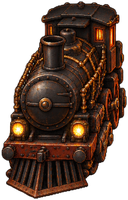
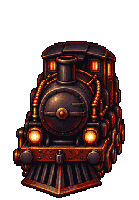
Выровняй корпус паровоза на поворотах

diff --git a/art_src/train_turn_v2/prepare.py b/art_src/train_turn_v2/prepare.py
@@ -1,0 +1,87 @@
+"""Prepare the generated turn, validate both runtime PNGs, and rebuild the QA board."""
+import hashlib
+import json
+import re
+from pathlib import Path
+
+from PIL import Image, ImageDraw, ImageOps
+
+ROOT = Path(__file__).resolve().parents[2]
+HERE = Path(__file__).resolve().parent
+TRAIN = ROOT / 'assets/px/train'
+PALETTE = [tuple(bytes.fromhex(h)) for h in re.findall(
+    r'\b[0-9a-f]{6}\b', (ROOT / 'docs/STYLE.md').read_text(encoding='utf-8'))]
+
+
+def write_json(name, value):
+    (HERE / name).write_text(json.dumps(value, indent=2, ensure_ascii=False) + '\n', encoding='utf-8')
+
+
+def measure(im):
+    pixels = im.load()
+    rows = [sum(pixels[x, y][3] == 255 for x in range(im.width)) for y in range(im.height)]
+    colors = {p[:3] for p in im.get_flattened_data() if p[3]}
+    return dict(width=im.width, height=im.height,
+                body_top=next(y for y, count in enumerate(rows) if count),
+                first_row_25_percent=next(y for y, count in enumerate(rows) if count >= im.width / 4),
+                bottom=max(y for y, count in enumerate(rows) if count),
+                off_palette_colors=len(colors - set(PALETTE)),
+                alpha_values=sorted(set(im.getchannel('A').get_flattened_data())))
+
+
+def main():
+    source = Image.open(HERE / 'generated_left.png').convert('RGBA')
+    source.putalpha(source.getchannel('A').point(lambda a: 255 if a >= 128 else 0))
+    # Preserve aspect ratio and 157-pixel body height; no vertical shear or tilt.
+    source = source.crop(source.getbbox())
+    body = source.resize((round(source.width * 157 / source.height), 157), Image.Resampling.NEAREST)
+    mapped = []
+    cache = {}
+    for r, g, b, a in body.get_flattened_data():
+        if not a:
+            mapped.append((0, 0, 0, 0))
+            continue
+        rgb = (r, g, b)
+        if rgb not in cache:
+            cache[rgb] = min(PALETTE, key=lambda p: sum((p[i] - rgb[i]) ** 2 for i in range(3)))
+        mapped.append((*cache[rgb], 255))
+    body.putdata(mapped)
+    left = Image.new('RGBA', (139, 200))
+    left.paste(body, ((139 - body.width) // 2, 41))
+    frames = [left, ImageOps.mirror(left)]
+    validation = {}
+    manifest = []
+    for direction, im in zip(('left', 'right'), frames):
+        name = f'loco_turn_{direction}.png'
+        path = TRAIN / name
+        im.save(path)
+        result = measure(im)
+        assert result['height'] == 200 and result['width'] <= 139
+        assert result['body_top'] >= 41 and result['first_row_25_percent'] >= 38
+        assert 196 <= result['bottom'] <= 198
+        assert result['off_palette_colors'] == 0 and result['alpha_values'] == [0, 255]
+        result['sha256'] = hashlib.sha256(path.read_bytes()).hexdigest()
+        validation[name] = result
+        manifest.append(dict(file=path.relative_to(ROOT).as_posix(), size=[139, 200], frames=1,
+                             pivot=[69.5, 198], purpose=f'slight {direction} turn, no smoke'))
+    write_json('validation.json', validation)
+    write_json('train_turn_manifest_v2.json', dict(pixel_filter='nearest', row_indexing='zero-based', assets=manifest))
+    # All four canvases share the exact y origin: baseline is native row 197.
+    board = Image.new('RGB', (4 * 159, 230), '#17121b')
+    draw = ImageDraw.Draw(board)
+    draw.line((0, 219, board.width - 1, 219), fill='#6c7880')
+    draw.line((0, 63, board.width - 1, 63), fill='#33232b')
+    refs = [Image.open(TRAIN / 'loco_run_0.png').convert('RGBA'), *frames,
+            Image.open(HERE / 'old_left.png').convert('RGBA')]
+    for i, (label, im) in enumerate(zip(('RUN 0', 'NEW LEFT', 'NEW RIGHT', 'OLD LEFT'), refs)):
+        x = i * 159 + (159 - im.width) // 2
+        board.paste(im, (x, 22), im)
+        draw.text((i * 159 + 10, 5), label, fill='#d0d8d4')
+    out = ROOT / 'docs/qa/turn-frames/compare.png'
+    out.parent.mkdir(parents=True, exist_ok=True)
+    board.resize((board.width * 3, board.height * 3), Image.Resampling.NEAREST).save(out)
+    print(json.dumps(validation, indent=2))
+
+
+if __name__ == '__main__':
+    main()

diff --git a/art_src/train_turn_v2/README.md b/art_src/train_turn_v2/README.md
@@ -1,0 +1,25 @@
+# Повороты паровоза v2
+
+Два готовых кадра: `assets/px/train/loco_turn_left.png` и `loco_turn_right.png`.
+Оба 139×200, без дыма, небольшой доворот примерно 15–20° с узкой видимой боковиной.
+Угол — художественная оценка растра, не замер 3D-модели.
+Крыша и основание выровнены с бегом: верх силуэта y=41, низ y=197.
+Нумерация строк от нуля. Первый ряд, заполненный хотя бы на 25%, — y=42.
+
+`generated_left.png` — оригинальный черновик встроенного image_gen по кадру бега
+и старому повороту; полный запрос в `train_turn_prompts_v2.json`.
+Pillow обрезает прозрачные поля, приводит корпус к высоте 157 с сохранением пропорций,
+делает nearest-масштабирование, жёсткую альфу и точное сопоставление палитре STYLE.
+Правый кадр зеркален левому, поэтому геометрия и высота совпадают до пикселя.
+Нет дыма, текста, мягких краёв, дизеринга или добавленных цветов.
+
+Воспроизведение и проверка: `python art_src/train_turn_v2/prepare.py`.
+Скрипт пишет только эти два игровых PNG, локальные манифест/замеры и доску сравнения.
+Новые зависимости не нужны. `validation.json` содержит размеры, строки, альфу,
+число посторонних цветов и SHA-256. Манифест описывает пакет, не реестр рантайма.
+Pivot — середина холста у нижней границы непрозрачного корпуса: [69.5, 198].
+
+`old_left.png` сохранён только как исходник воспроизводимого сравнения.
+`docs/qa/turn-frames/compare.png`: бег 0, новый левый, новый правый, старый левый;
+одинаковый y начала холста, линии крыши y=41 и основания y=197, увеличение ×3 nearest.
+Подписи есть только на проверочной доске, в игровых спрайтах текста нет.

diff --git a/art_src/train_turn_v2/REPORT.md b/art_src/train_turn_v2/REPORT.md
@@ -1,0 +1,23 @@
+Верх корпуса: левый y=41, правый y=41; ширины: 139 и 139 px; цветов вне палитры: 0 в каждом.
+
+Заменены только два разрешённых игровых PNG; кабина больше не подскакивает на 37 px.
+Первый ряд с ≥25% непрозрачной ширины: y=42 в обоих новых кадрах против y=4
+у старого левого; у бега 0 этот порог y=41 (исходная альфа приведена порогом 128).
+Высота обоих холстов 200 px, нижний непрозрачный ряд y=197, альфа только 0/255.
+Все индексы строк от нуля. Палитра прочитана из `docs/STYLE.md`.
+
+Встроенный image_gen создал небольшой доворот; подготовка Pillow сохранила пропорции,
+выставила базовую линию и ограничила палитру. Правый кадр зеркален левому.
+Поворот примерно 15–20° оценён визуально; точный физический угол из растра не измерялся.
+Дым отсутствует. Сохранены силуэт, две фары, котёл, буфер и путеочиститель эталона.
+
+Проверки:
+- `python art_src/train_turn_v2/prepare.py` — код 0; все числовые ограничения соблюдены,
+  результаты с SHA-256 находятся в `validation.json`.
+- `node tools/check.mjs --tests` — код 0, стена 5,482 с; 207 тестов, 0 ошибок.
+- `docs/qa/turn-frames/compare.png` — один лист ×3, четыре кадра на общей базовой линии;
+  просмотрен визуально. Размер листа 1908×690.
+
+Код, другие игровые ассеты и существующие исходники не менялись.
+Проверка выполнена по файлам и сравнительному листу; живой игровой прогон не выполнялся.
+Работа по этой карточке завершена; коммит передаётся Producer для интеграции.
